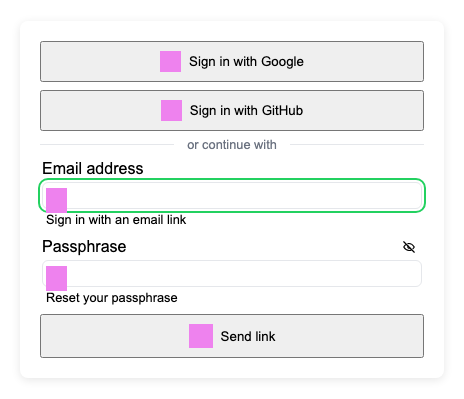
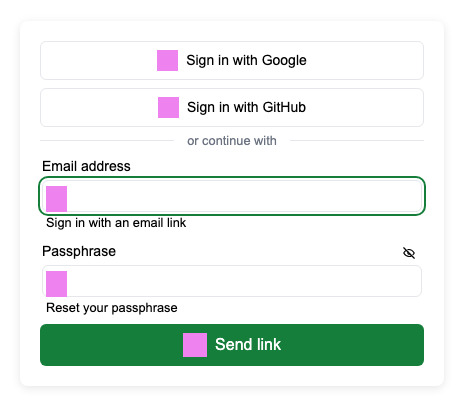
fix: color contrast for default styles

diff --git a/packages/main/src/lib/Auth.svelte b/packages/main/src/lib/Auth.svelte
@@ -158,13 +158,13 @@
     color-scheme: light dark;
     
     /* Colors */
-    --primary: light-dark(hsl(141, 71%, 48%), hsl(141, 71%, 55%));
+    --primary: light-dark(hsl(141, 71%, 29%), hsl(141, 71%, 55%));
     --primary-fg: white;
     --border: light-dark(#e5e7eb, #374151);
     --muted-fg: light-dark(#6b7280, #9ca3af);
     --danger: light-dark(hsl(358, 86%, 58%), hsl(358, 86%, 65%));
     --warning: light-dark(hsl(36, 100%, 44%), hsl(36, 100%, 55%));
-    --success: light-dark(hsl(141, 71%, 48%), hsl(141, 71%, 55%));
+    --success: light-dark(hsl(141, 71%, 29%), hsl(141, 71%, 55%));
     --link: currentColor;
     --ring: var(--primary);
     
